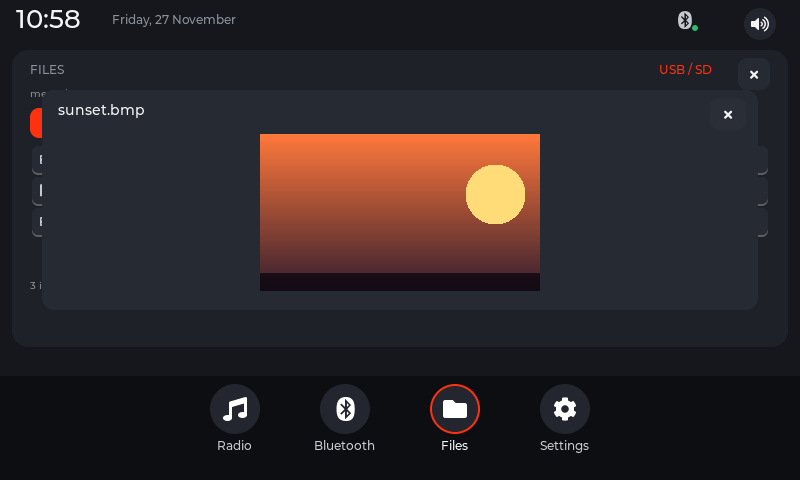
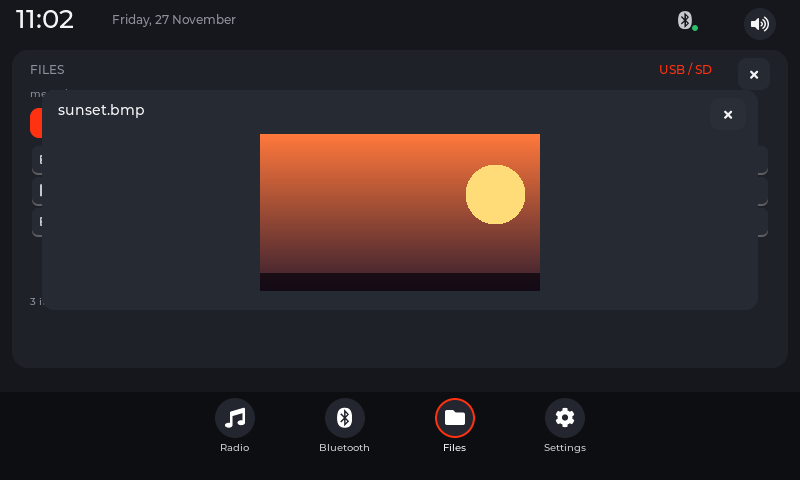
ui: smaller dock with taller main panels, radio band radio-buttons without close, QEMU ARM test

diff --git a/prototype/index.html b/prototype/index.html
@@ -114,7 +114,7 @@
 
   /* ── cards ──────────────────────────────────────────────── */
   .card{
-    position:absolute;top:50px;height:297px;border-radius:16px;
+    position:absolute;top:50px;height:318px;border-radius:16px;
     background:var(--card);
     padding:14px 14px;
     overflow:hidden;
@@ -235,25 +235,25 @@
 
   /* ── dock ───────────────────────────────────────────────── */
   .dock{
-    position:absolute;left:0;right:0;bottom:0;height:104px;background:var(--dock);
+    position:absolute;left:0;right:0;bottom:0;height:88px;background:var(--dock);
     border-top:1px solid rgba(255,255,255,.035);
-    display:flex;align-items:flex-start;justify-content:space-around;padding:10px 18px 0;
+    display:flex;align-items:flex-start;justify-content:space-around;padding:8px 18px 0;
   }
   .dock-item{display:flex;flex-direction:column;align-items:center;gap:6px;width:96px;cursor:pointer}
   .dock-ic{
-    width:50px;height:50px;border-radius:50%;background:var(--circle);
+    width:42px;height:42px;border-radius:50%;background:var(--circle);
     display:grid;place-items:center;transition:background .15s ease, box-shadow .15s ease;
   }
   .dock-item:hover .dock-ic{background:#2B2F38}
   .dock-item.active .dock-ic{background:#2C3039;box-shadow:0 0 0 2px var(--accent)}
-  .dock-ic svg{width:24px;height:24px}
-  .dock-label{font-size:10.5px;color:var(--soft);white-space:nowrap}
+  .dock-ic svg{width:21px;height:21px}
+  .dock-label{font-size:10px;color:var(--soft);white-space:nowrap}
   .dock-item.active .dock-label{color:var(--text);font-weight:600}
 
 
   /* ── app panels: Radio / Files / Settings ───────────────── */
   .app-panel{
-    position:absolute;left:12.5px;top:50px;width:775px;height:297px;
+    position:absolute;left:12.5px;top:50px;width:775px;height:318px;
     border-radius:16px;background:var(--card);padding:14px 18px;
     display:none;z-index:6;overflow:hidden;
   }
@@ -265,9 +265,10 @@
     width:30px;height:30px;font-size:16px;line-height:1;cursor:pointer;
   }
   .panel-close:hover{background:var(--btn)}
-  .radio-top{position:absolute;right:54px;top:12px;height:24px}
+  .radio-top{position:absolute;right:18px;top:12px;height:24px}
   .radio-band{display:flex;gap:6px}
-  .radio-band .clock-btn{padding:3px 12px;font-size:11px}
+  .radio-band .clock-btn{padding:3px 12px;font-size:11px;background:var(--inner);color:var(--muted)}
+  .radio-band .clock-btn.sel{background:var(--accent);color:#fff}
   .radio-freq{font-size:48px;font-weight:600;text-align:center;letter-spacing:-.02em;margin-top:8px}
   .radio-hint{text-align:center;font-size:10px;color:var(--muted);height:12px;line-height:12px}
   .radio-row{display:flex;gap:10px;margin-top:6px}
@@ -580,7 +581,7 @@
 
   <!-- RADIO PANEL -->
   <section class="app-panel" id="radioPanel">
-    <div class="panel-head"><span class="label">Radio</span><span class="source">FM / AM</span><button class="panel-close" data-close>×</button></div>
+    <div class="panel-head"><span class="label">Radio</span></div>
     <div class="radio-top">
       <div class="radio-band">
         <button class="clock-btn sel" id="bandFm">FM</button>

diff --git a/app/panels.c b/app/panels.c
@@ -103,18 +103,18 @@ static void close_cb(lv_event_t *e) {
     if (cb_home) cb_home();
 }
 
-static lv_obj_t *panel_header(lv_obj_t *panel, const char *title, const char *right) {
+static lv_obj_t *panel_header(lv_obj_t *panel, const char *title, const char *right, bool show_close) {
     label(panel, title, 18, 12, 260, 18, &lv_font_montserrat_12, C_MUTED, LV_TEXT_ALIGN_LEFT);
     lv_obj_t *r = NULL;
     if (right && right[0]) {
         r = label(panel, right, 500, 12, 200, 18, &lv_font_montserrat_12, 0xFE3211, LV_TEXT_ALIGN_RIGHT);
     }
-    button(panel, LV_SYMBOL_CLOSE, 726, 8, 32, 32, C_INNER, &lv_font_montserrat_12, close_cb, NULL);
+    if (show_close) button(panel, LV_SYMBOL_CLOSE, 726, 8, 32, 32, C_INNER, &lv_font_montserrat_12, close_cb, NULL);
     return r;
 }
 
 static lv_obj_t *make_panel(lv_obj_t *parent) {
-    lv_obj_t *p = box(parent, 12, 50, 776, 297, C_CARD, 16);
+    lv_obj_t *p = box(parent, 12, 50, 776, 318, C_CARD, 16);
     lv_obj_add_flag(p, LV_OBJ_FLAG_HIDDEN);
     return p;
 }
@@ -216,10 +216,10 @@ static void radio_update(void) {
 
     lv_obj_set_style_bg_color(lv_obj_get_parent(radio_save_lbl),
                               col(radio_save_mode ? 0xFE3211 : C_INNER), 0);
-    lv_obj_set_style_bg_color(lv_obj_get_parent(radio_fm_lbl), col(radio_am ? C_INNER : C_BTN), 0);
-    lv_obj_set_style_bg_color(lv_obj_get_parent(radio_am_lbl), col(radio_am ? C_BTN : C_INNER), 0);
-    lv_obj_set_style_text_color(radio_fm_lbl, col(radio_am ? C_MUTED : C_TEXT), 0);
-    lv_obj_set_style_text_color(radio_am_lbl, col(radio_am ? C_TEXT : C_MUTED), 0);
+    lv_obj_set_style_bg_color(lv_obj_get_parent(radio_fm_lbl), col(radio_am ? C_INNER : 0xFE3211), 0);
+    lv_obj_set_style_bg_color(lv_obj_get_parent(radio_am_lbl), col(radio_am ? 0xFE3211 : C_INNER), 0);
+    lv_obj_set_style_text_color(radio_fm_lbl, col(radio_am ? C_MUTED : 0xFFFFFF), 0);
+    lv_obj_set_style_text_color(radio_am_lbl, col(radio_am ? 0xFFFFFF : C_MUTED), 0);
 
     for (int i = 0; i < 6; i++) {
         double *p = band_presets();
@@ -295,7 +295,7 @@ static void radio_save_cb(lv_event_t *e) {
 
 static void build_radio(lv_obj_t *parent) {
     radio_panel = make_panel(parent);
-    panel_header(radio_panel, "RADIO", "FM / AM");
+    panel_header(radio_panel, "RADIO", "", false);
 
     radio_freq_lbl = label(radio_panel, "98.1 MHz", 0, 30, 776, 64,
                            &lv_font_montserrat_40, C_TEXT, LV_TEXT_ALIGN_CENTER);
@@ -304,10 +304,10 @@ static void build_radio(lv_obj_t *parent) {
     radio_rds_lbl = label(radio_panel, "RDS  -  off", 0, 110, 776, 14,
                           &lv_font_montserrat_10, C_MUTED, LV_TEXT_ALIGN_CENTER);
 
-    lv_obj_t *fm = button(radio_panel, "FM", 596, 34, 54, 28, C_BTN,
+    lv_obj_t *fm = button(radio_panel, "FM", 650, 34, 54, 28, C_BTN,
                           &lv_font_montserrat_12, NULL, &radio_fm_lbl);
     lv_obj_add_event_cb(fm, radio_band_cb, LV_EVENT_CLICKED, (void *)(intptr_t)0);
-    lv_obj_t *am = button(radio_panel, "AM", 656, 34, 54, 28, C_INNER,
+    lv_obj_t *am = button(radio_panel, "AM", 710, 34, 54, 28, C_INNER,
                           &lv_font_montserrat_12, NULL, &radio_am_lbl);
     lv_obj_add_event_cb(am, radio_band_cb, LV_EVENT_CLICKED, (void *)(intptr_t)1);
     (void)fm; (void)am;
@@ -330,11 +330,11 @@ static void build_radio(lv_obj_t *parent) {
         lv_obj_add_event_cb(radio_preset_btns[i], radio_preset_cb, LV_EVENT_CLICKED, (void *)(intptr_t)i);
     }
 
-    button(radio_panel, LV_SYMBOL_POWER, 120, 244, 90, 34, 0xFE3211,
+    button(radio_panel, LV_SYMBOL_POWER, 120, 264, 90, 34, 0xFE3211,
            &lv_font_montserrat_18, radio_power_cb, &radio_power_lbl);
-    button(radio_panel, LV_SYMBOL_SAVE, 328, 244, 120, 34, C_INNER,
+    button(radio_panel, LV_SYMBOL_SAVE, 328, 264, 120, 34, C_INNER,
            &lv_font_montserrat_16, radio_save_cb, &radio_save_lbl);
-    button(radio_panel, LV_SYMBOL_MUTE, 566, 244, 90, 34, C_INNER,
+    button(radio_panel, LV_SYMBOL_MUTE, 566, 264, 90, 34, C_INNER,
            &lv_font_montserrat_16, radio_mute_cb, &radio_mute_lbl);
 
     presets_load();
@@ -683,7 +683,7 @@ static void files_refresh_cb(lv_event_t *e) {
 
 static void build_files(lv_obj_t *parent) {
     files_panel = make_panel(parent);
-    files_status_lbl = panel_header(files_panel, "FILES", "USB / SD");
+    files_status_lbl = panel_header(files_panel, "FILES", "USB / SD", true);
 
     files_path_lbl = label(files_panel, file_root, 18, 38, 700, 16,
                            &lv_font_montserrat_10, C_MUTED, LV_TEXT_ALIGN_LEFT);
@@ -700,18 +700,18 @@ static void build_files(lv_obj_t *parent) {
     button(files_panel, LV_SYMBOL_UP, 610, 58, 54, 30, C_INNER, &lv_font_montserrat_12, files_up_cb, NULL);
     button(files_panel, LV_SYMBOL_REFRESH, 672, 58, 54, 30, C_INNER, &lv_font_montserrat_12, files_refresh_cb, NULL);
 
-    files_list = box(files_panel, 18, 94, 740, 134, C_CARD, 8);
+    files_list = box(files_panel, 18, 94, 740, 150, C_CARD, 8);
     lv_obj_set_style_bg_opa(files_list, LV_OPA_TRANSP, 0);
     lv_obj_set_flex_flow(files_list, LV_FLEX_FLOW_COLUMN);
     lv_obj_set_style_pad_row(files_list, 4, 0);
     lv_obj_set_style_pad_all(files_list, 2, 0);
     lv_obj_set_scroll_dir(files_list, LV_DIR_VER);
 
-    files_info_lbl = label(files_panel, "", 18, 230, 740, 18,
+    files_info_lbl = label(files_panel, "", 18, 246, 740, 18,
                            &lv_font_montserrat_10, C_MUTED, LV_TEXT_ALIGN_LEFT);
     lv_label_set_long_mode(files_info_lbl, LV_LABEL_LONG_MODE_CLIP);
 
-    music_box = box(files_panel, 18, 250, 740, 38, C_INNER, 8);
+    music_box = box(files_panel, 18, 266, 740, 38, C_INNER, 8);
     lv_obj_add_flag(music_box, LV_OBJ_FLAG_HIDDEN);
     music_title = label(music_box, "", 10, 3, 520, 14, &lv_font_montserrat_10, C_TEXT,
                         LV_TEXT_ALIGN_LEFT);
@@ -932,7 +932,7 @@ static void settings_reset_cb(lv_event_t *e) {
 
 static void build_settings(lv_obj_t *parent) {
     settings_panel = make_panel(parent);
-    panel_header(settings_panel, "SETTINGS", "CAR_482 / 7010B");
+    panel_header(settings_panel, "SETTINGS", "CAR_482 / 7010B", true);
 
     label(settings_panel, "ACCENT", 24, 44, 90, 14, &lv_font_montserrat_10, C_MUTED, LV_TEXT_ALIGN_LEFT);
     for (int i = 0; i < 5; i++) {
@@ -1002,7 +1002,7 @@ static void build_settings(lv_obj_t *parent) {
           &lv_font_montserrat_10, C_TEXT, LV_TEXT_ALIGN_LEFT);
     label(settings_panel, "BT 55 AA LEN CMD DATA CHK", 120, 230, 320, 14,
           &lv_font_montserrat_10, C_TEXT, LV_TEXT_ALIGN_LEFT);
-    label(settings_panel, "Experimental - use at your own risk", 24, 266, 420, 12,
+    label(settings_panel, "Experimental - use at your own risk", 24, 286, 420, 12,
           &lv_font_montserrat_10, C_MUTED, LV_TEXT_ALIGN_LEFT);
 
     button(settings_panel, "Reset UI", 606, 250, 140, 32, C_INNER, &lv_font_montserrat_12, settings_reset_cb, NULL);

diff --git a/app/ui.c b/app/ui.c
@@ -680,7 +680,7 @@ void ui_update(void) {
 }
 
 static void build_player(lv_obj_t *scr) {
-    player_panel = card(scr, 12, 50, 776, 297);
+    player_panel = card(scr, 12, 50, 776, 318);
     lv_obj_add_flag(player_panel, LV_OBJ_FLAG_HIDDEN);
 
     label(player_panel, "NOW PLAYING", 18, 12, 200, 18, &lv_font_montserrat_12, C_MUTED, LV_TEXT_ALIGN_LEFT);
@@ -797,7 +797,7 @@ void ui_init(bt_model_t *model) {
     lv_obj_add_event_cb(vol_btn, volume_open_cb, LV_EVENT_CLICKED, NULL);
 
     /* ── phone card ─────────────────────────────────────────── */
-    lv_obj_t *phone = card(home, 12, 50, 234, 297);
+    lv_obj_t *phone = card(home, 12, 50, 234, 318);
     label(phone, "PHONE", 14, 12, 100, 14, &lv_font_montserrat_10, C_MUTED, LV_TEXT_ALIGN_LEFT);
     phone_source = label(phone, "A2DP", 144, 12, 76, 14, &lv_font_montserrat_10, accent, LV_TEXT_ALIGN_RIGHT);
 
@@ -819,13 +819,13 @@ void ui_init(bt_model_t *model) {
     label(phone, "and select " BT_LOCAL_NAME ".", 14, 174, 206, 12, &lv_font_montserrat_10,
           C_MUTED, LV_TEXT_ALIGN_LEFT);
 
-    disconnect_btn = button(phone, "Disconnect", 14, 245, 130, 36, C_INNER, C_TEXT,
+    disconnect_btn = button(phone, "Disconnect", 14, 268, 130, 36, C_INNER, C_TEXT,
                             &lv_font_montserrat_12, sc_cb, &disconnect_lbl);
-    call_btn = button(phone, "Call", 150, 245, 70, 36, C_INNER, C_TEXT,
+    call_btn = button(phone, "Call", 150, 268, 70, 36, C_INNER, C_TEXT,
                       &lv_font_montserrat_12, call_open_cb, NULL);
 
     /* ── bluetooth card ─────────────────────────────────────── */
-    lv_obj_t *bt = card(home, 256, 50, 328, 297);
+    lv_obj_t *bt = card(home, 256, 50, 328, 318);
     label(bt, "BLUETOOTH", 14, 12, 120, 14, &lv_font_montserrat_10, C_MUTED, LV_TEXT_ALIGN_LEFT);
     bt_name_lbl = label(bt, BT_LOCAL_NAME, 220, 12, 94, 14, &lv_font_montserrat_10, accent, LV_TEXT_ALIGN_RIGHT);
 
@@ -855,14 +855,14 @@ void ui_init(bt_model_t *model) {
     bt_title = label(bt, "Connected", 14, 186, 300, 28, &lv_font_montserrat_22, C_TEXT, LV_TEXT_ALIGN_CENTER);
     bt_sub = label(bt, "", 14, 212, 300, 18, &lv_font_montserrat_12, C_MUTED, LV_TEXT_ALIGN_CENTER);
 
-    primary_btn = button(bt, "Play", 54, 238, 130, 36, accent, 0xFFFFFF,
+    primary_btn = button(bt, "Play", 54, 262, 130, 36, accent, 0xFFFFFF,
                          &lv_font_montserrat_12, pc_cb, &primary_lbl);
-    secondary_btn = button(bt, "Disconnect", 190, 238, 110, 36, C_INNER, C_TEXT,
+    secondary_btn = button(bt, "Disconnect", 190, 262, 110, 36, C_INNER, C_TEXT,
                            &lv_font_montserrat_12, sc_cb, &secondary_lbl);
 
 
     /* ── audio card ─────────────────────────────────────────── */
-    lv_obj_t *audio = card(home, 594, 50, 194, 297);
+    lv_obj_t *audio = card(home, 594, 50, 194, 318);
     label(audio, "AUDIO", 14, 12, 80, 14, &lv_font_montserrat_10, C_MUTED, LV_TEXT_ALIGN_LEFT);
     audio_source = label(audio, "BLUETOOTH", 90, 12, 90, 14, &lv_font_montserrat_10, accent, LV_TEXT_ALIGN_RIGHT);
 
@@ -874,26 +874,26 @@ void ui_init(bt_model_t *model) {
     artist_lbl = label(audio, "Demo Artist", 8, 190, 178, 16, &lv_font_montserrat_12, C_MUTED, LV_TEXT_ALIGN_CENTER);
     time_pos_lbl = label(audio, "1:08 / 3:35", 8, 206, 178, 14, &lv_font_montserrat_10, C_MUTED, LV_TEXT_ALIGN_CENTER);
 
-    prev_btn = button(audio, LV_SYMBOL_PREV, 30, 230, 42, 42, C_BTN, 0xFFFFFF,
+    prev_btn = button(audio, LV_SYMBOL_PREV, 30, 242, 42, 42, C_BTN, 0xFFFFFF,
                       &lv_font_montserrat_18, prev_cb, NULL);
     lv_obj_set_style_radius(prev_btn, LV_RADIUS_CIRCLE, 0);
-    play_btn = button(audio, LV_SYMBOL_PLAY, 70, 224, 54, 54, accent, 0xFFFFFF,
+    play_btn = button(audio, LV_SYMBOL_PLAY, 70, 236, 54, 54, accent, 0xFFFFFF,
                       &lv_font_montserrat_24, pc_cb, &play_lbl);
     lv_obj_set_style_radius(play_btn, LV_RADIUS_CIRCLE, 0);
-    next_btn = button(audio, LV_SYMBOL_NEXT, 130, 230, 42, 42, C_BTN, 0xFFFFFF,
+    next_btn = button(audio, LV_SYMBOL_NEXT, 130, 242, 42, 42, C_BTN, 0xFFFFFF,
                       &lv_font_montserrat_18, next_cb, NULL);
     lv_obj_set_style_radius(next_btn, LV_RADIUS_CIRCLE, 0);
 
     /* ── dock: Radio, Bluetooth, Files, Settings ────────────── */
-    lv_obj_t *dock = box(scr, 0, 376, 800, 104, C_DOCK, 0);
+    lv_obj_t *dock = box(scr, 0, 392, 800, 88, C_DOCK, 0);
     const char *dock_icons[] = { LV_SYMBOL_AUDIO, LV_SYMBOL_BLUETOOTH, LV_SYMBOL_DIRECTORY, LV_SYMBOL_SETTINGS };
     const char *dock_names[] = { "Radio", "Bluetooth", "Files", "Settings" };
     for (int i = 0; i < 4; i++) {
         int slot = 180 + i * 110;
-        lv_obj_t *c = circle(dock, slot + 30, 8, 50, C_CIRCLE);
+        lv_obj_t *c = circle(dock, slot + 35, 6, 40, C_CIRCLE);
         dock_circles[i] = c;
-        icon_center(c, dock_icons[i], &lv_font_montserrat_24, 0xFFFFFF);
-        dock_labels[i] = label(dock, dock_names[i], slot + 5, 62, 100, 16, &lv_font_montserrat_12,
+        icon_center(c, dock_icons[i], &lv_font_montserrat_20, 0xFFFFFF);
+        dock_labels[i] = label(dock, dock_names[i], slot + 5, 50, 100, 14, &lv_font_montserrat_10,
                                i == 1 ? C_TEXT : C_SOFT, LV_TEXT_ALIGN_CENTER);
         lv_obj_add_event_cb(c, dock_cb, LV_EVENT_CLICKED, (void *)(intptr_t)i);
     }

diff --git a/docs/QEMU.md b/docs/QEMU.md
@@ -1,0 +1,57 @@
+# QEMU testing notes
+
+The 7010B is an **Allwinner F1C200s-class ARM926EJ-S (ARMv5TE)** device running **Melis/ePDK**, not Linux. There are three different QEMU questions.
+
+## 1. Running the ARMv5 Linux binary (`strada-ui-fb`)
+
+`make arm` produces a Linux framebuffer/evdev binary. QEMU user mode can execute the instruction set:
+
+```bash
+qemu-arm ./build-arm/strada-ui-fb
+```
+
+It will not show the UI, because the binary expects `/dev/fb0` and an evdev touch device. QEMU user mode does not provide those. Options:
+
+- run it on a real ARM Linux board / VM with fbdev, or
+- use the SDL build (`strada-ui`) on a desktop for UI work, or
+- boot a minimal ARM Linux under `qemu-system-arm` with a framebuffer driver and run `strada-ui-fb` there.
+
+The last option is possible in principle (`versatilepb` or `vexpress-a9` plus a kernel/rootfs), but it is a Linux environment, not the stock Melis firmware.
+
+## 2. Testing the ARMv5 core under QEMU user mode
+
+This is implemented and runs in CI:
+
+```bash
+make qemu-test
+```
+
+It cross-compiles `tests/test_bt.c` with `bt_sim.c` and `bt_uart.c` as a **static ARMv5TE** binary and runs it with `qemu-arm`. This validates the Bluetooth state machine, call/music interruption logic and UART framing on the target instruction set.
+
+Requirements:
+
+- `arm-linux-gnueabi-gcc`
+- `qemu-arm` (`qemu-user` on Debian/Ubuntu)
+
+## 3. Booting the stock firmware
+
+QEMU system mode does **not** currently have a machine model for the 7010B / F1C200s Melis platform. The CPU core is supported (`arm926`), but the board model would need:
+
+- F1C200s DRAM, SPI NOR, clock/reset and interrupt controllers,
+- the LCD/touch panel path,
+- the external MCU + 6905 Bluetooth module over UART,
+- CedarX/media blocks if video/audio is exercised.
+
+Without that model, QEMU cannot boot `7010b-original.bin` or the patched image as a real device. A custom QEMU machine or real hardware is required.
+
+## Practical test matrix
+
+| Test | Tool | What it proves |
+|---|---|---|
+| UI layout and interaction | SDL emulator / browser | UI behavior, not target hardware |
+| ARMv5 instruction set + logic | `qemu-arm` + `make qemu-test` | Core logic runs on ARMv5TE |
+| Framebuffer/evdev startup | ARM Linux board or ARM VM | Linux port only |
+| Stock firmware boot | Real 7010B / custom QEMU board | Actual Melis behavior |
+| Flash safety | SPI programmer + verified backups | Recovery path |
+
+See [FIRMWARE_UPDATE.md](FIRMWARE_UPDATE.md) for the stock update path and [../DISCLAIMER.md](../DISCLAIMER.md) before flashing.

diff --git a/README.md b/README.md
@@ -284,6 +284,10 @@ The stock update path is encoded in `app_config.fex` and `update.mod`:
 
 Observed strings and the safe interpretation are documented in [docs/FIRMWARE_UPDATE.md](docs/FIRMWARE_UPDATE.md). The repo's `7010b-CAR_482.img` is a full SPI dump for a programmer, not the vendor `ePDKv100.img` package.
 
+## QEMU testing
+
+`make qemu-test` cross-compiles the Bluetooth/UART tests as a static ARMv5TE binary and runs them under `qemu-arm`. The SDL and browser builds cover UI behavior; the stock Melis firmware cannot boot in QEMU without a custom F1C200s machine model. See [docs/QEMU.md](docs/QEMU.md).
+
 ## Releases and updates
 
 - `VERSION` is the UI version.
